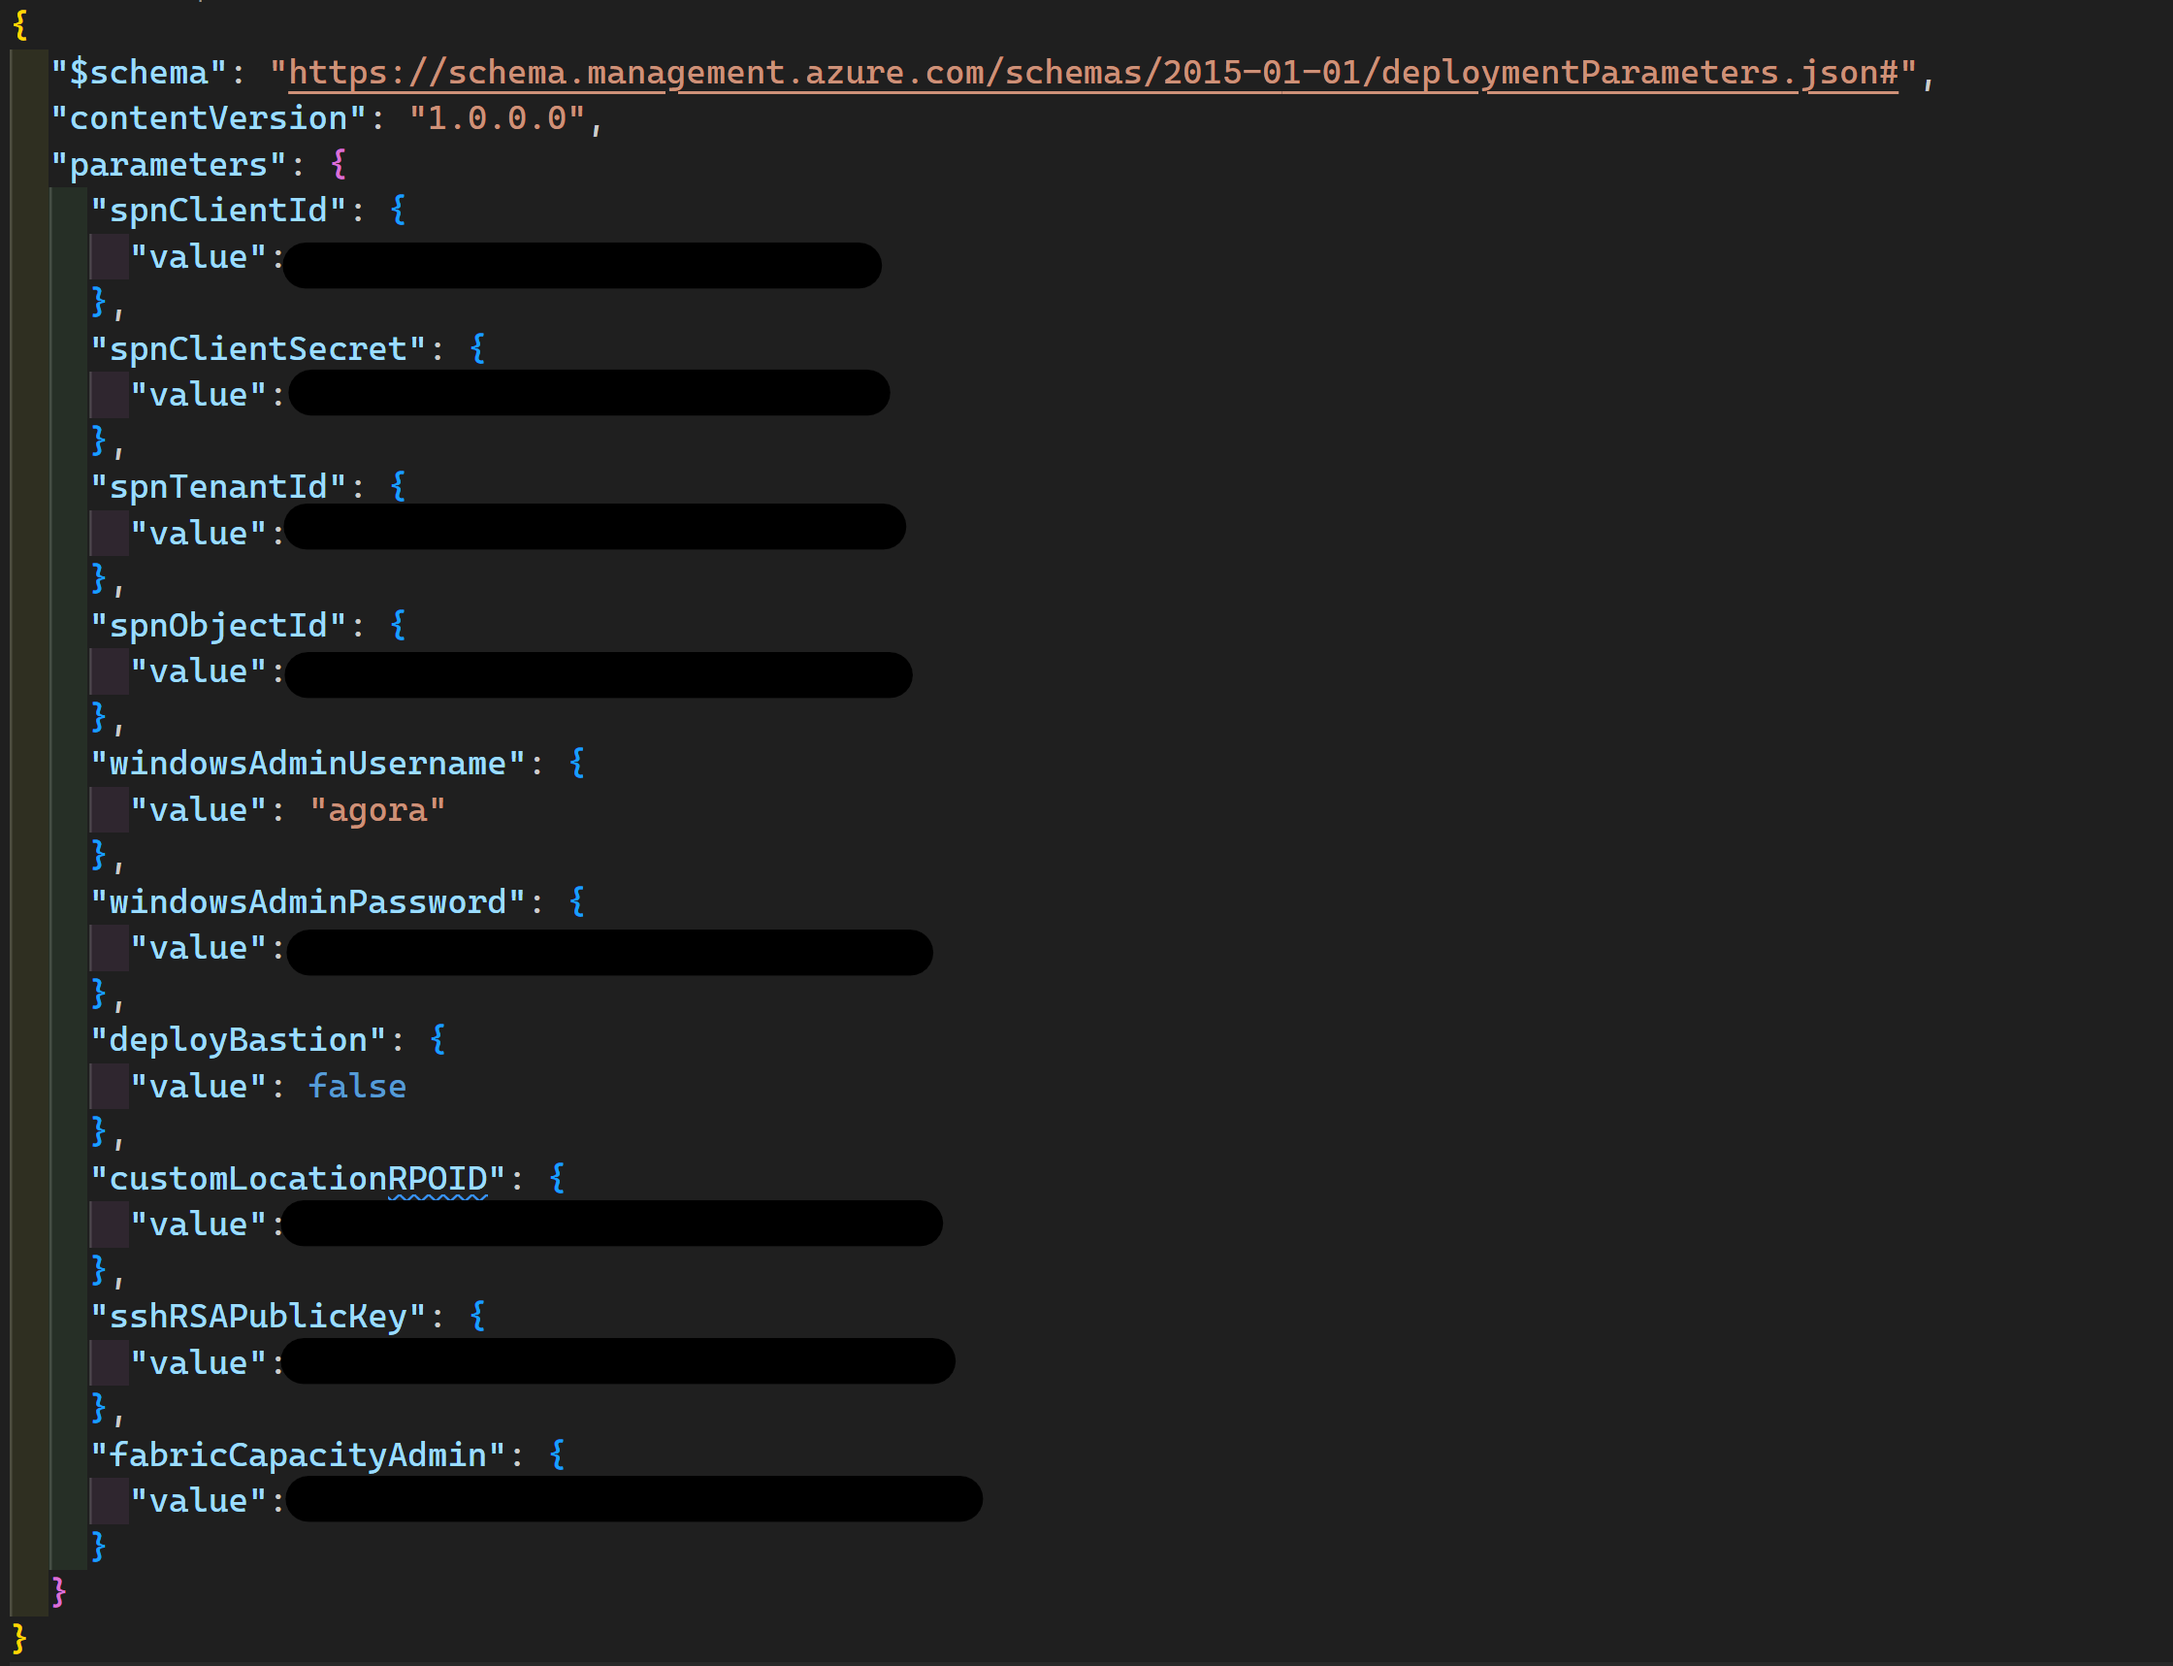
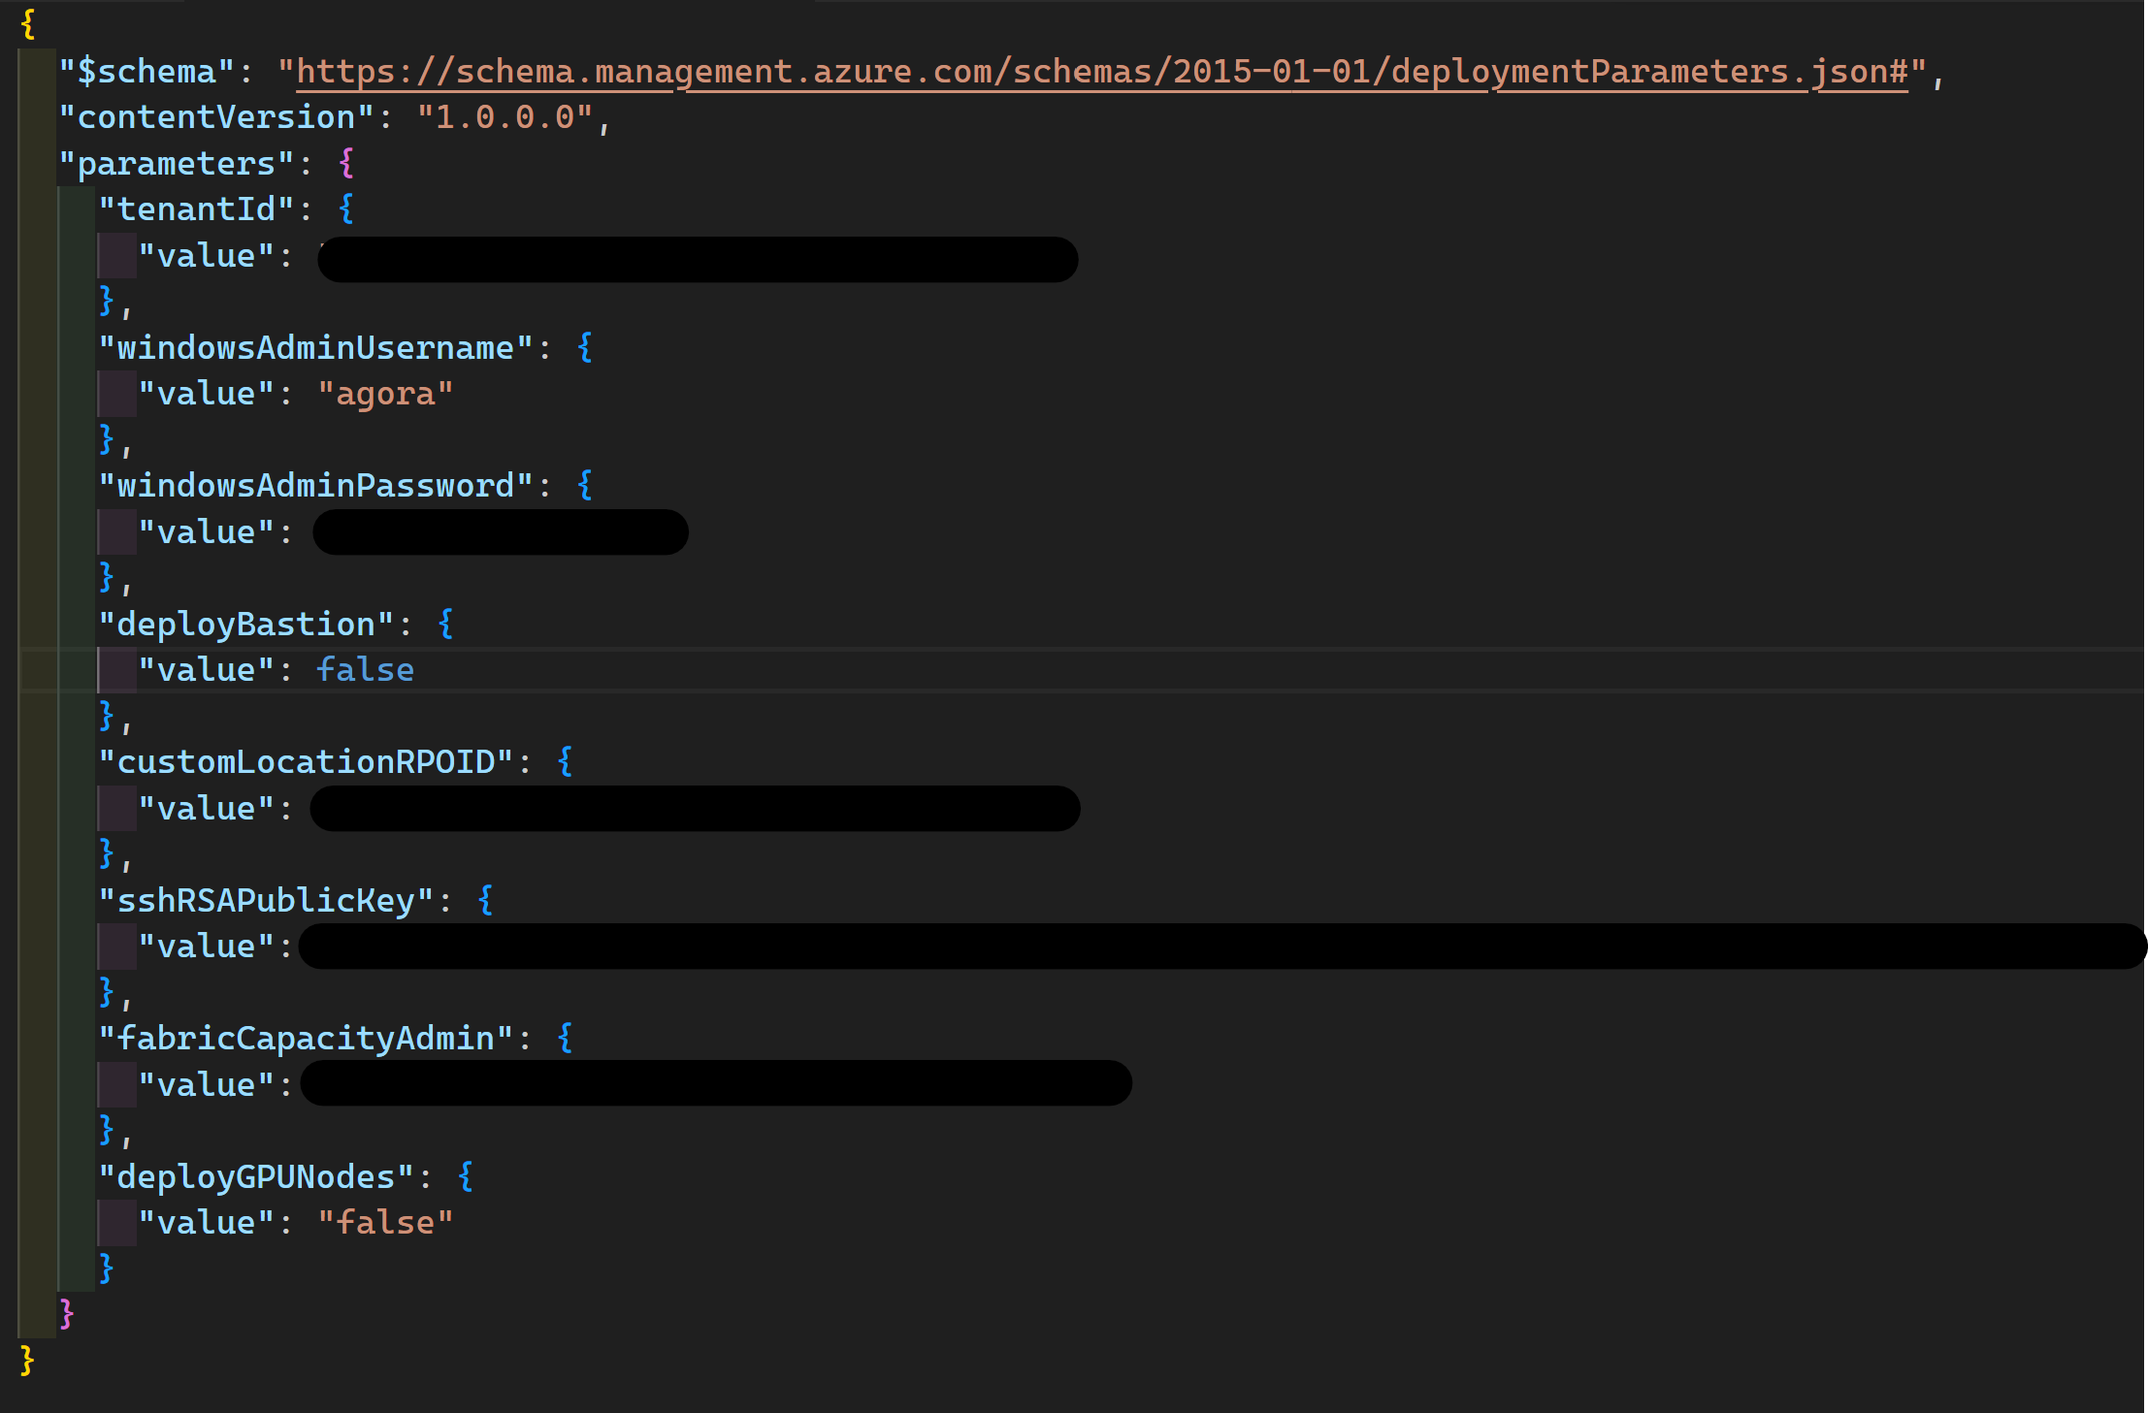
remove sp

Changed region(s): [[0.0, 0.0, 1.0, 1.0], [0.4051, 0.5559, 0.4986, 0.5868]]

diff --git a/docs/azure_jumpstart_ag/contoso_hypermarket/deployment/_index.md b/docs/azure_jumpstart_ag/contoso_hypermarket/deployment/_index.md
@@ -53,91 +53,28 @@ Once automation is complete, users can immediately start enjoying the Contoso Hy
 
   ![Screenshot showing az vm list-usage](./img/az_vm_list_usage.png)
 
-- Create Azure service principal (SP). An Azure service principal assigned with the _Owner_ Role-based access control (RBAC) role is required. You can use Azure Cloud Shell (or other Bash shell), or PowerShell to create the service principal.
+- Register necessary Azure resource providers by running the following commands.
 
-  - (Option 1) Create service principal using [Azure Cloud Shell](https://shell.azure.com/) or Bash shell with Azure CLI:
+  ```shell
+  az provider register --namespace Microsoft.Kubernetes --wait
+  az provider register --namespace Microsoft.KubernetesConfiguration --wait
+  az provider register --namespace Microsoft.ExtendedLocation --wait
+  az provider register --namespace Microsoft.HybridCompute --wait
+  az provider register --namespace Microsoft.OperationsManagement --wait
+  az provider register --namespace Microsoft.DeviceRegistry --wait
+  az provider register --namespace Microsoft.EventGrid --wait
+  az provider register --namespace Microsoft.IoTOperationsOrchestrator --wait
+  az provider register --namespace Microsoft.IoTOperations --wait
+  az provider register --namespace Microsoft.Fabric --wait
+  ```
 
-    ```shell
-    az login
-    subscriptionId=$(az account show --query id --output tsv)
-    az ad sp create-for-rbac -n "<Unique SP Name>" --role "Owner" --scopes /subscriptions/$subscriptionId
-    ```
-
-    For example:
-
-    ```shell
-    az login
-    subscriptionId=$(az account show --query id --output tsv)
-    az ad sp create-for-rbac -n "JumpstartAgoraSPN" --role "Owner" --scopes /subscriptions/$subscriptionId
-    ```
-
-    Output should look similar to this:
-
-    ```json
-    {
-    "appId": "XXXXXXXXXXXXXXXXXXXXXXXXXXXX",
-    "displayName": "JumpstartAgora",
-    "password": "XXXXXXXXXXXXXXXXXXXXXXXXXXXX",
-    "tenant": "XXXXXXXXXXXXXXXXXXXXXXXXXXXX"
-    }
-    ```
-
-  - (Option 2) Create service principal using PowerShell. If necessary, follow [this documentation](https://learn.microsoft.com/powershell/azure/install-az-ps?view=azps-8.3.0) to install Azure PowerShell modules.
-
-    ```powershell
-    $account = Connect-AzAccount
-    $spn = New-AzADServicePrincipal -DisplayName "<Unique SPN name>" -Role "Owner" -Scope "/subscriptions/$($account.Context.Subscription.Id)"
-    echo "SPN App id: $($spn.AppId)"
-    echo "SPN secret: $($spn.PasswordCredentials.SecretText)"
-    echo "SPN tenant: $($account.Context.Tenant.Id)"
-    ```
-
-    For example:
-
-    ```powershell
-    $account = Connect-AzAccount
-    $spn = New-AzADServicePrincipal -DisplayName "JumpstartAgoraSPN" -Role "Owner" -Scope "/subscriptions/$($account.Context.Subscription.Id)"
-    echo "SPN App id: $($spn.AppId)"
-    echo "SPN secret: $($spn.PasswordCredentials.SecretText)"
-    ```
-
-    Output should look similar to this:
-
-    ![Screenshot showing creating an SPN with PowerShell](./img/create_spn_powershell.png)
-
-    > **Note:** If you create multiple subsequent role assignments on the same service principal, your client secret (password) will be destroyed and recreated each time. Therefore, make sure you grab the correct secret.
-
-    > **Note:** The Jumpstart scenarios are designed with as much ease of use in mind and adhering to security-related best practices whenever possible. It's optional but highly recommended to scope the service principal to a specific [Azure subscription and resource group](https://learn.microsoft.com/cli/azure/ad/sp?view=azure-cli-latest) as well as considering using a [less privileged service principal account](https://learn.microsoft.com/azure/role-based-access-control/best-practices).
+> **Note:** The Jumpstart scenarios are designed with as much ease of use in mind and adhering to security-related best practices whenever possible. It's optional but highly recommended to scope the service principal to a specific [Azure subscription and resource group](https://learn.microsoft.com/cli/azure/ad/sp?view=azure-cli-latest) as well as considering using a [less privileged service principal account](https://learn.microsoft.com/azure/role-based-access-control/best-practices).
 
 - Clone the Azure Arc Jumpstart repository
 
   ```shell
   git clone https://github.com/microsoft/azure_arc.git
   ```
-
-- Azure IoT Operations requires creating a "user_impersonation" delegated permission on Azure Key Vault for this service principal.
-
-  - Navigate to *Microsoft Entra Id* (previously known as Azure Active Directory) in the Azure portal.
-
-    ![Screenshot showing searching for Microsoft Entra ID in the Azure portal](./img/entra_id_portal.png)
-
-  - Click on "App registrations" and search for the name of the service principal you created.
-
-    ![Screenshot showing searching for the service principal in the Entra Id portal](./img/entra_id_search.png)
-
-  - Click on "API permissions" and add a new permission.
-
-    ![Screenshot showing adding a new API permission](./img/entra_id_add_permission.png)
-
-  - Select "Azure Key Vault".
-
-    ![Screenshot showing adding a new API permission](./img/entra_id_keyvault_permission.png)
-
-  - Click on "Delegated permissions" and select the "user_impersonation" permission.
-
-    ![Screenshot showing adding a new API permission](./img/entra_id_user_impersonation.png)
-
-    ![Screenshot showing added API permission](./img/entra_id_permission_added.png)
 
 ## Deployment: Bicep deployment via Azure CLI
 
@@ -148,29 +85,13 @@ Once automation is complete, users can immediately start enjoying the Contoso Hy
   ```
 
 - Edit the [main.parameters.json](https://github.com/microsoft/azure_arc/blob/main/azure_jumpstart_ag/contoso_hypermarket/bicep/main.parameters.json) template parameters file and supply some values for your environment.
-  - _`spnClientId`_ - Your Azure service principal application id
-  - _`spnClientSecret`_ - Your Azure service principal secret
-  - _`spnObjectId`_ - Your Azure service principal id
-  - _`spnTenantId`_ - Your Azure tenant id
+  - _`tenantId`_ - Your Azure tenant id
   - _`windowsAdminUsername`_ - Client Windows VM Administrator username
   - _`windowsAdminPassword`_ - Client Windows VM Password. Password must have 3 of the following: 1 lower case character, 1 upper case character, 1 number, and 1 special character. The value must be between 12 and 123 characters long.
   - _`deployBastion`_ - Option to deploy using Azure Bastion instead of traditional RDP. Set to *`true`* or *`false`*.
   - _`customLocationRPOID`_ - Custom location resource provider id.
   - _`fabricCapacityAdmin`_ - Microsoft Fabric capacity admin (admin user ins the same Entra ID tenant).
-
--To get the `spnObjectId`, you can use Azure CLI or Azure PowerShell.
-
-  - (Option 1) Using [Azure Cloud Shell](https://shell.azure.com/) or Bash shell with Azure CLI.
-
-    ```shell
-    az ad sp show --id "<Service principal application Id>" --query id -o tsv
-    ```
-
-  - (Option 2) Using PowerShell. If necessary, follow [this documentation](https://learn.microsoft.com/powershell/azure/install-az-ps?view=azps-8.3.0) to install Azure PowerShell modules.
-
-    ```powershell
-    (Get-AzADServicePrincipal -ApplicationId "<Service principal application Id>").Id
-    ```
+  - _`deployGPUNodes`_ - Option to deploy GPU-enabled worker nodes for the K3s clusters.
 
   ![Screenshot showing example parameters](./img/parameters_bicep.png)
 
